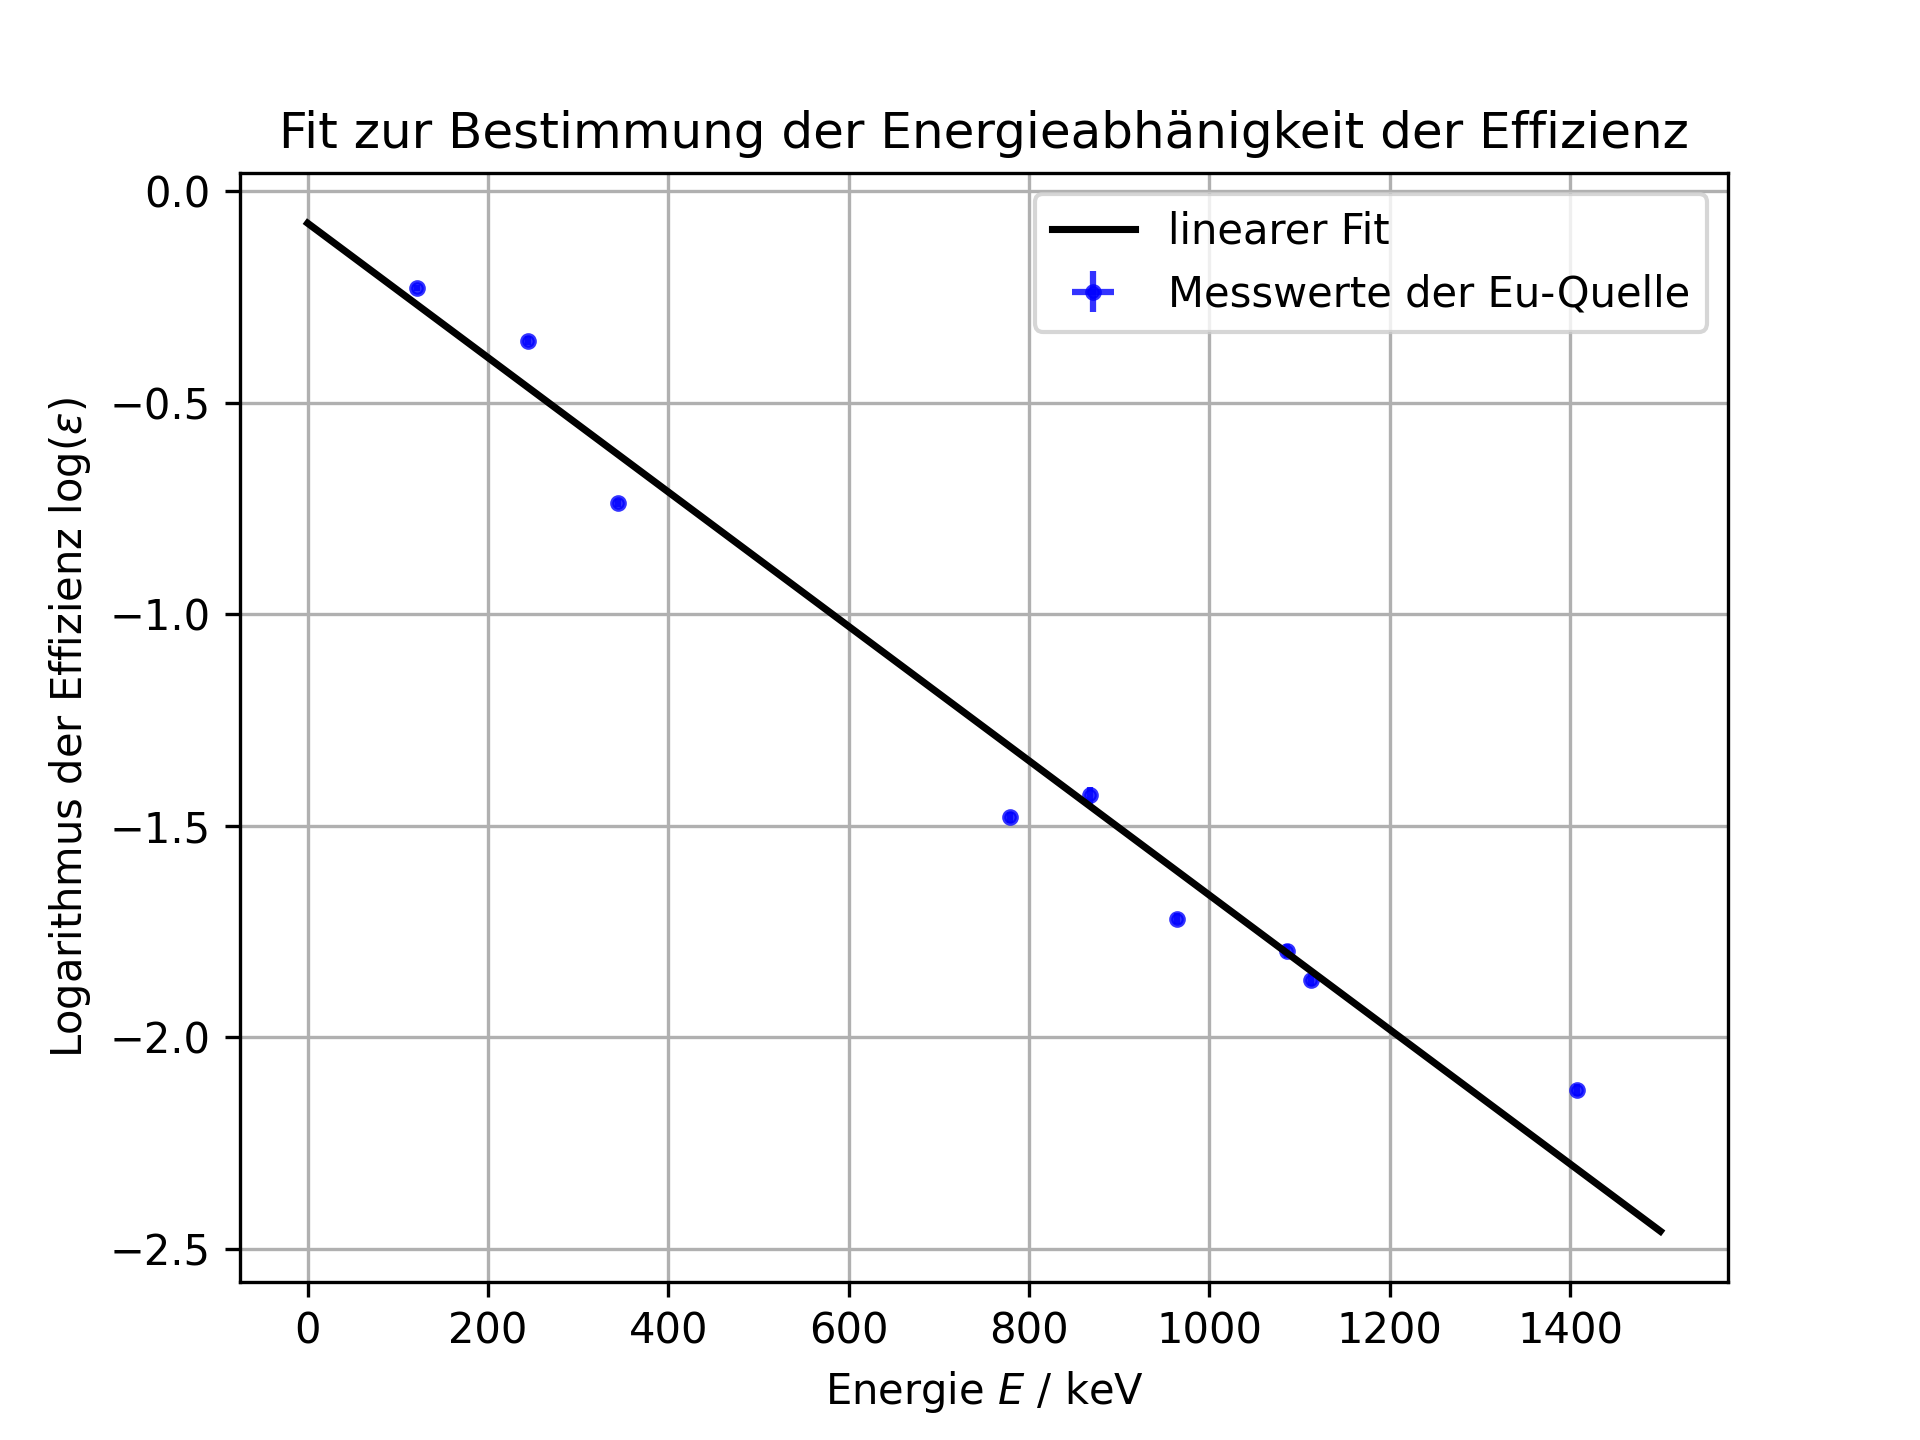
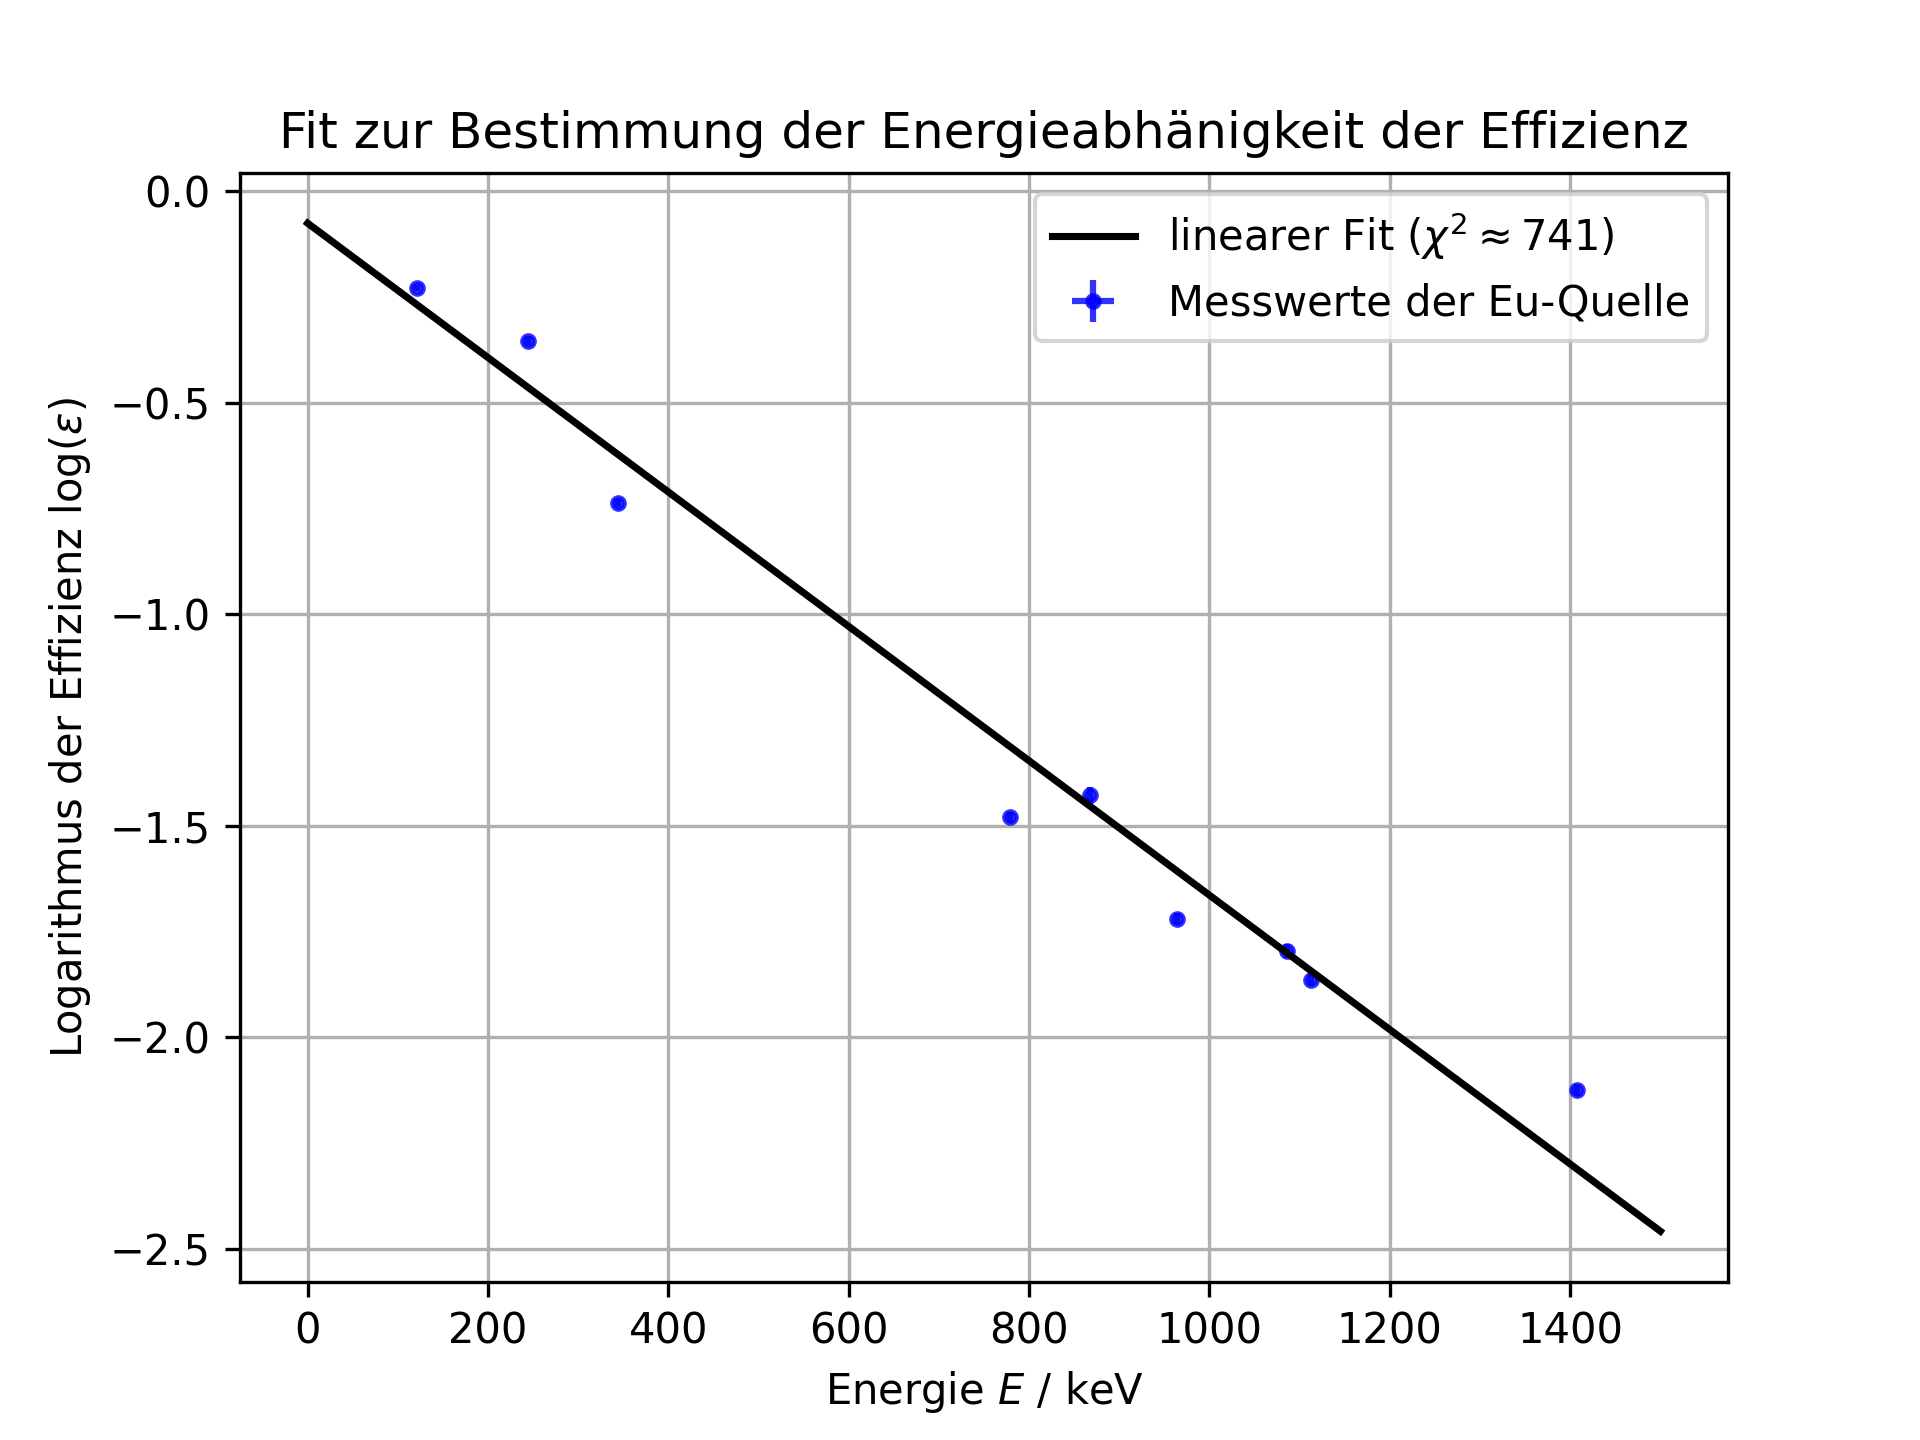
chi squared effizient fit

Changed region(s): [[0.5312, 0.125, 0.875, 0.25]]

diff --git a/Praktikum 5/V521/PeakToTotal + Effizienz/PTT+Effizienz.py b/Praktikum 5/V521/PeakToTotal + Effizienz/PTT+Effizienz.py
@@ -119,7 +119,7 @@ residuals = ydata=y_data - linear(x_data, *popt)
 chi_squared = np.sum((residuals / y_err) ** 2)
 
 fit_vals = np.linspace(0, 1500, 300)
-plt.plot(fit_vals, linear(fit_vals, *popt), label=f"linearer Fit", color="black", linewidth=1.7, zorder=3, alpha=1)
+plt.plot(fit_vals, linear(fit_vals, *popt), label=r"linearer Fit ($\chi^2 \approx $" + f"{np.round(chi_squared, 0)}"[:-2] + ")", color="black", linewidth=1.7, zorder=3, alpha=1)
 
 for j in range(2):
     print(f"{j}:\t{fit_values[j]}\t± {fit_value_errors[j]}")
